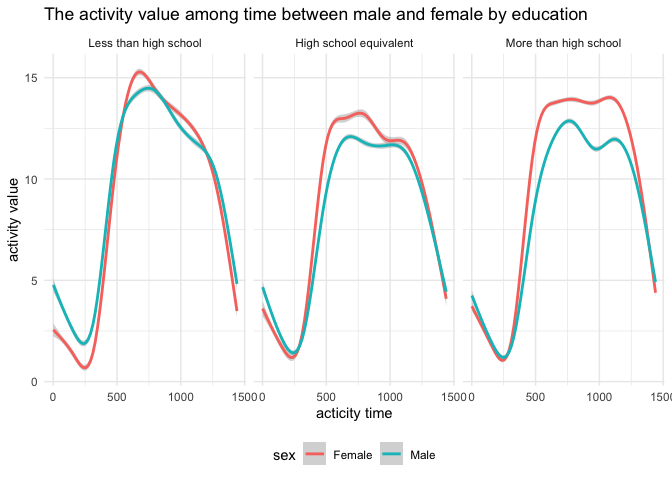
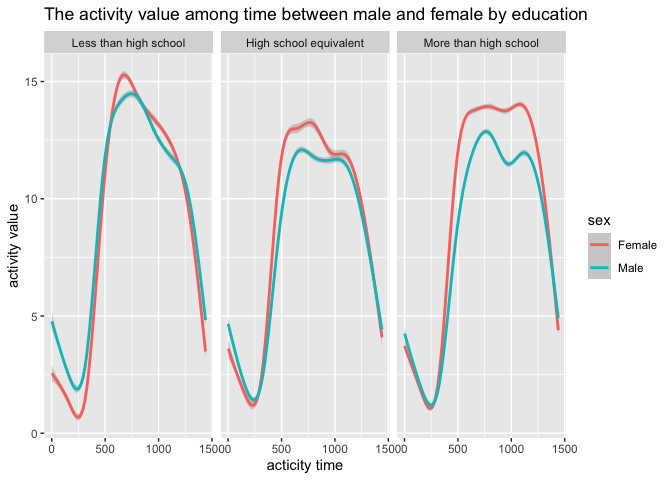
Re-confirm the codes

diff --git a/p8105_hw3_jh4617.md b/p8105_hw3_jh4617.md
@@ -21,8 +21,6 @@ library(tidyverse)
 
 ``` r
 data("instacart")
-
-theme_set(theme_minimal() + theme(legend.position = "bottom"))
 ```
 
 # Problem 1
